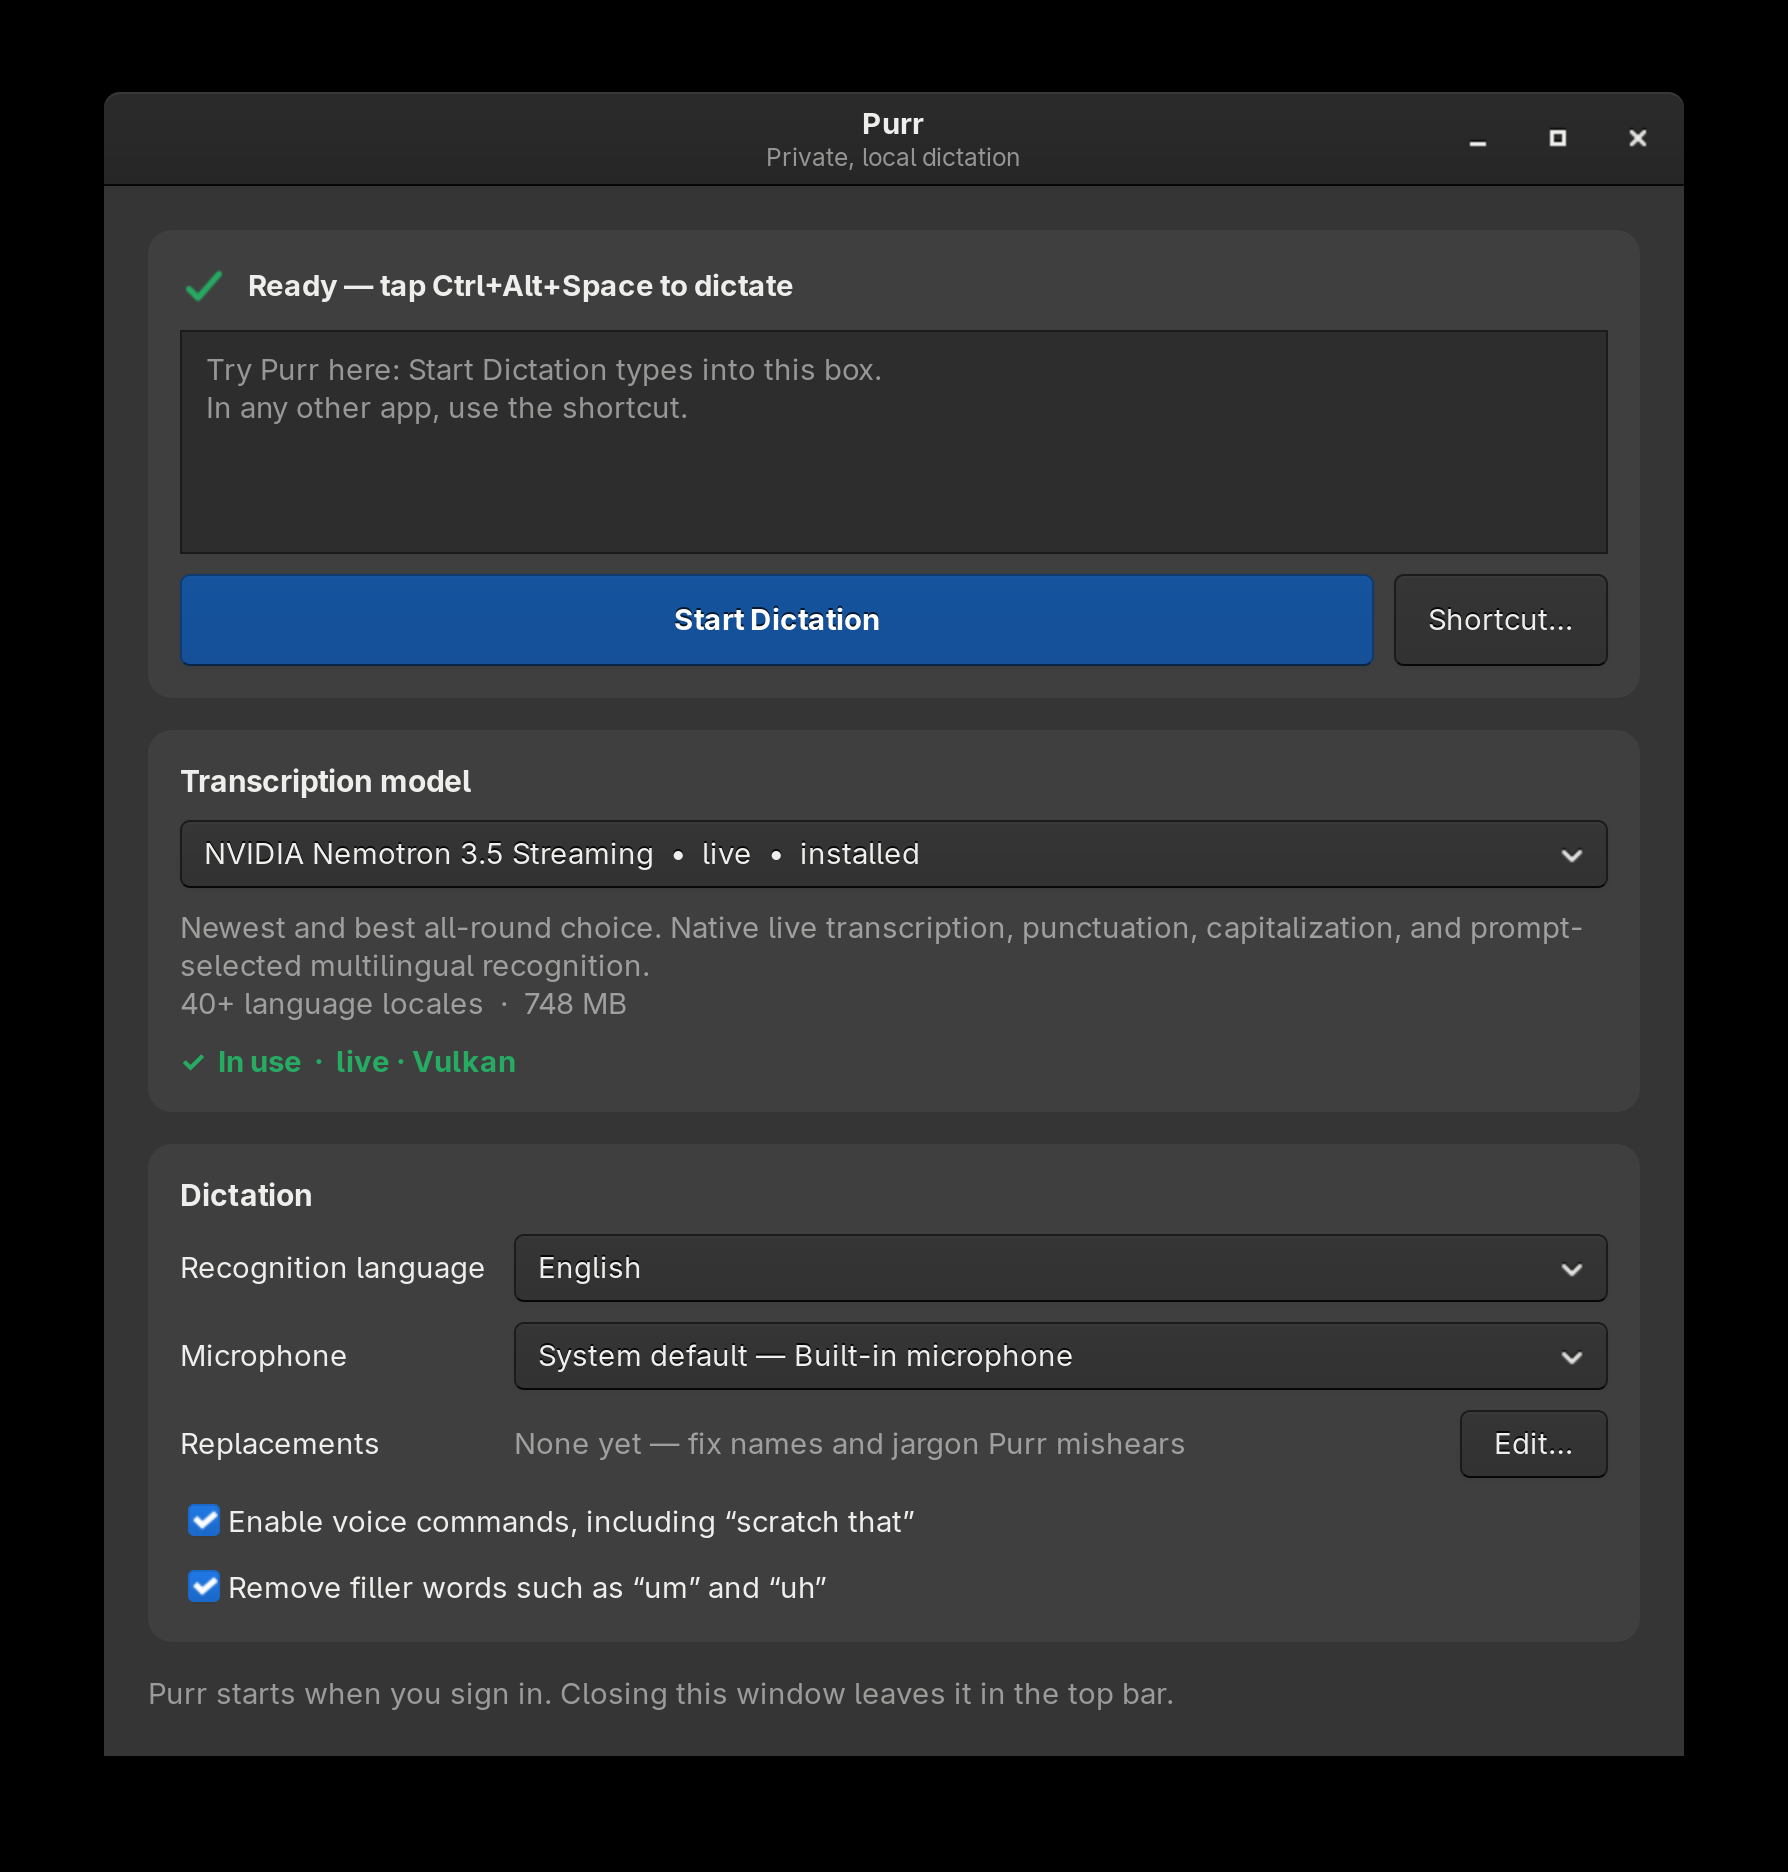
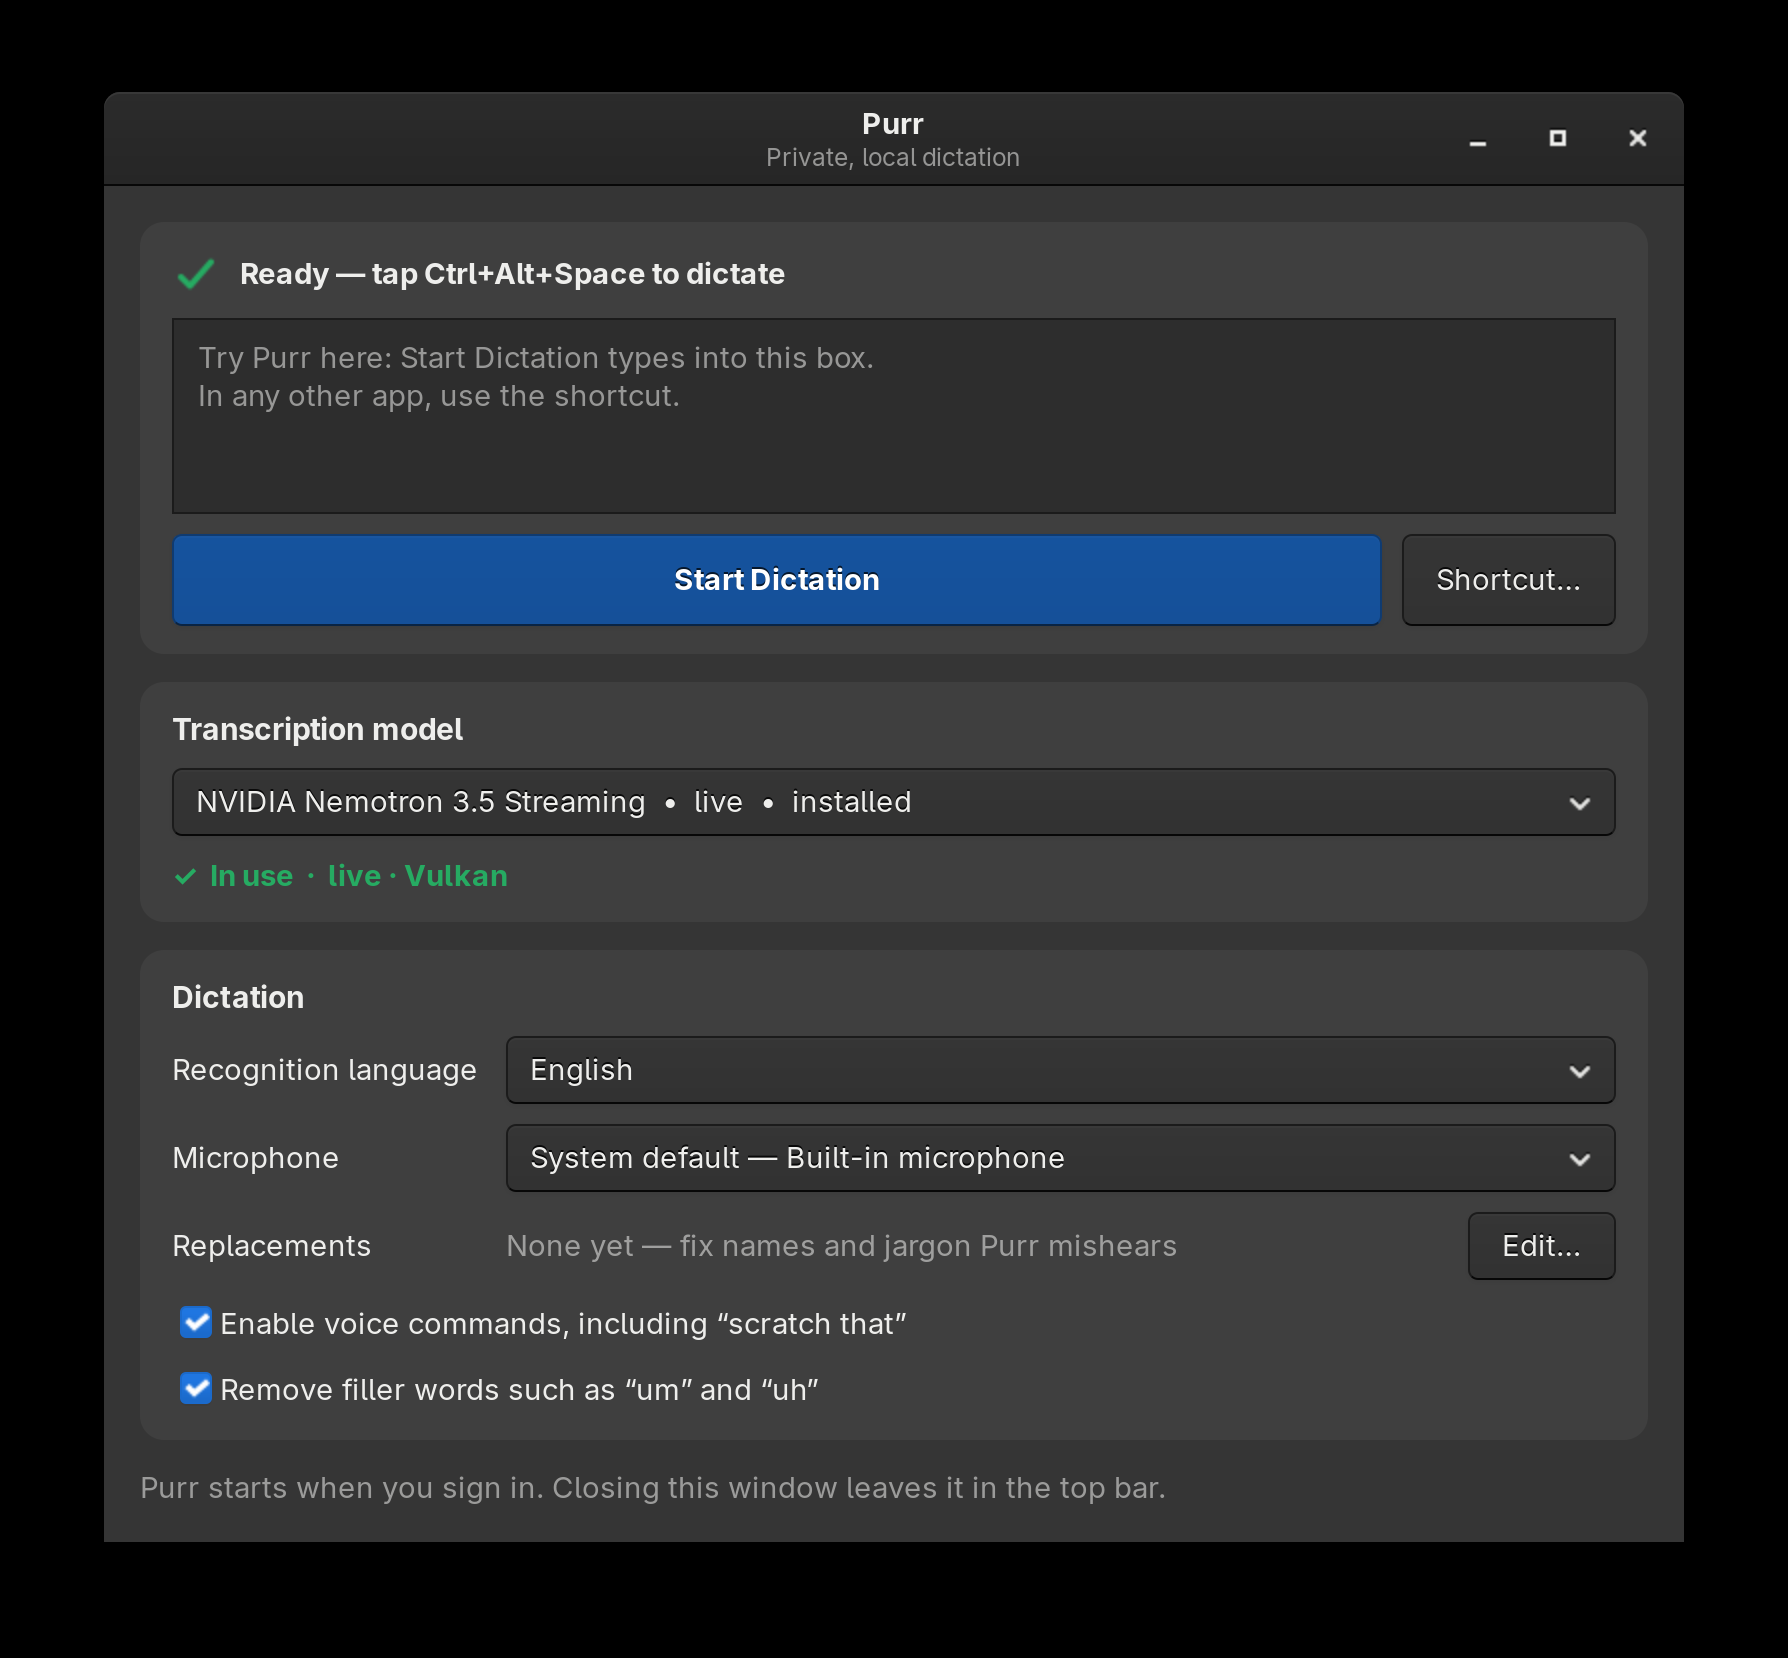
Fit the window on short screens and capitalize I for lowercase models
Pass 5 of the Linux polish program.

- The window no longer demands 865 px. It hides the model description
  for the model in use, tightens spacing, and wraps its content in a
  page that scrolls only when the screen is too short. On a headless
  mutter with real virtual monitors, a 1920x1080 screen opens it at
  exactly its content with no scrolling, while 1366x768 and 1280x720
  scroll instead of cutting off the Dictation settings. Browsing another
  model grows the window for its description; returning gives the
  height back.
- The top-bar menu leads with Start Dictation.
- Realtime EOU writes lowercase without punctuation; for English, Purr
  now capitalizes the pronoun I (and I'm, I'll, I've, I'd) for models
  flagged as non-punctuating only, leaving "i.e." and Nemotron output
  alone.
- Screenshots re-rendered.

diff --git a/linux/purr_linux.py b/linux/purr_linux.py
@@ -168,8 +168,13 @@ class PostProcessor:
         (r"\bequals sign\b\.?", "="),
     ]
 
+    # The English pronoun, alone or contracted, but not "i.e." or "i-th".
+    PRONOUN_I = re.compile(r"\bi(?=(?:'(?:m|ll|ve|d))?(?:[\s,;:!?]|$))")
+
     def __init__(self, config: dict):
         self.config = config
+        # Set for models that write lowercase without punctuation.
+        self.capitalize_pronoun = False
 
     @staticmethod
     def _scratch(text: str) -> tuple[str, int]:
@@ -211,6 +216,8 @@ class PostProcessor:
                         text,
                         flags=re.IGNORECASE,
                     )
+        if self.capitalize_pronoun and str(self.config.get("language", "en")) == "en":
+            text = self.PRONOUN_I.sub("I", text)
         # The virtual keyboard is the only insertion path, and control
         # characters have no key or Unicode-compose form.
         if not text.replace("\n", " ").replace("\t", " ").isprintable():
@@ -480,6 +487,7 @@ class PurrApplication(Gtk.Application):
         self.processor = PostProcessor(self.config)
         self.store = ModelStore(BUILD)
         self.server, self.model = create_engine(self.config, BUILD, STATE, self.store)
+        self.processor.capitalize_pronoun = not self.model.punctuates
         self.keyboard: UInputKeyboard | None = None
         self.shortcuts: GnomeShortcut | None = None
         self.recorder: subprocess.Popen | None = None
@@ -546,7 +554,7 @@ class PurrApplication(Gtk.Application):
     def _install_css() -> None:
         provider = Gtk.CssProvider()
         provider.load_from_data(b"""
-            .purr-card { background: alpha(@theme_fg_color, 0.055); border-radius: 12px; padding: 16px; }
+            .purr-card { background: alpha(@theme_fg_color, 0.055); border-radius: 12px; padding: 14px 16px; }
             .purr-live { background: rgba(24, 24, 28, 0.94); color: white; border-radius: 18px; padding: 18px 24px; }
             .purr-live label { color: white; font-size: 17px; }
             .purr-record { padding: 10px 22px; font-weight: bold; }
@@ -574,15 +582,15 @@ class PurrApplication(Gtk.Application):
         self.indicator_model.set_sensitive(False)
         menu.append(self.indicator_model)
         menu.append(Gtk.SeparatorMenuItem())
+        self.indicator_dictate = Gtk.MenuItem(label="Start Dictation")
+        self.indicator_dictate.connect("activate", lambda _item: self._toggle_recording(None))
+        menu.append(self.indicator_dictate)
         show = Gtk.MenuItem(label="Open Purr")
         show.connect("activate", lambda _item: self._show_window())
         menu.append(show)
         configure = Gtk.MenuItem(label="Change Dictation Shortcut…")
         configure.connect("activate", lambda _item: self.shortcuts and self.shortcuts.configure())
         menu.append(configure)
-        self.indicator_dictate = Gtk.MenuItem(label="Start Dictation")
-        self.indicator_dictate.connect("activate", lambda _item: self._toggle_recording(None))
-        menu.append(self.indicator_dictate)
         menu.append(Gtk.SeparatorMenuItem())
         quit_item = Gtk.MenuItem(label="Quit")
         quit_item.connect("activate", lambda _item: self.quit())
@@ -593,14 +601,14 @@ class PurrApplication(Gtk.Application):
     def _build_window(self) -> None:
         self.window = Gtk.ApplicationWindow(application=self)
         self.window.set_title("Purr")
-        self.window.set_default_size(650, 650)
+        self.window.set_default_size(680, -1)  # natural height; scrolls on short screens
         self.window.connect("delete-event", self._hide_window)
         header = Gtk.HeaderBar(title="Purr", subtitle="Private, local dictation")
         header.set_show_close_button(True)
         self.window.set_titlebar(header)
 
-        outer = Gtk.Box(orientation=Gtk.Orientation.VERTICAL, spacing=16)
-        outer.set_border_width(22)
+        outer = Gtk.Box(orientation=Gtk.Orientation.VERTICAL, spacing=14)
+        outer.set_border_width(18)
 
         status_card = Gtk.Box(orientation=Gtk.Orientation.VERTICAL, spacing=10)
         status_card.get_style_context().add_class("purr-card")
@@ -638,7 +646,7 @@ class PurrApplication(Gtk.Application):
             wrap_mode=Gtk.WrapMode.WORD_CHAR, left_margin=10, right_margin=10,
             top_margin=8, bottom_margin=8,
         )
-        practice_scroll = Gtk.ScrolledWindow(min_content_height=110)
+        practice_scroll = Gtk.ScrolledWindow(min_content_height=96)
         practice_scroll.set_shadow_type(Gtk.ShadowType.IN)
         practice_scroll.add(self.practice)
         practice_area = Gtk.Overlay()
@@ -756,13 +764,41 @@ class PurrApplication(Gtk.Application):
         )
         note.get_style_context().add_class("dim-label")
         outer.pack_end(note, False, False, 0)
-        self.window.add(outer)
+        # Laptop screens can be shorter than the window: scroll there rather
+        # than cut off the settings. Where it fits, never scroll, so the window
+        # simply sizes to its content.
+        page = Gtk.ScrolledWindow(
+            hscrollbar_policy=Gtk.PolicyType.NEVER, propagate_natural_height=True,
+        )
+        page.add(outer)
+        self.window.add(page)
+        outer.show_all()  # measured with the model description shown, the tallest layout
+        if self._fits_on_screen(outer):
+            page.set_policy(Gtk.PolicyType.NEVER, Gtk.PolicyType.NEVER)
         self.window.show_all()
         self.download_progress.hide()
         self.practice.grab_focus()
         self._show_status_state()
         self._sync_record_controls()
         self._refresh_model_ui()
+
+    @staticmethod
+    def _fits_on_screen(content) -> bool:
+        display = Gdk.Display.get_default()
+        monitor = display and (display.get_primary_monitor() or display.get_monitor(0))
+        if not monitor:
+            return True
+        _minimum, natural = content.get_preferred_height()
+        # Room for the header bar and window shadows.
+        return natural + 120 <= monitor.get_workarea().height
+
+    def _shrink_to_content(self) -> None:
+        """Give back the height of a section that was hidden. GTK grows a window
+        for new content but never shrinks it; where the page does not scroll,
+        the smallest size is exactly the content."""
+        page = self.window.get_child()
+        if page.get_policy()[1] == Gtk.PolicyType.NEVER:
+            self.window.resize(self.window.get_size()[0], 1)
 
     def _populate_microphones(self) -> None:
         """(Re)list sources, so devices plugged in since the last look appear."""
@@ -995,6 +1031,7 @@ class PurrApplication(Gtk.Application):
             GLib.idle_add(self._server_failed, str(error))
 
     def _server_ready(self) -> bool:
+        self.processor.capitalize_pronoun = not self.model.punctuates
         self.ready = True
         self.busy = False
         self.engine_error = None
@@ -1356,6 +1393,12 @@ class PurrApplication(Gtk.Application):
             f"{selected.summary}\n{selected.languages}  ·  {selected.size_label}"
         )
         active = selected.id == self.model.id
+        # The description helps while choosing another model; for the one in
+        # use it only makes the window taller.
+        described = self.model_description.get_visible()
+        self.model_description.set_visible(not active)
+        if described and active:
+            self._shrink_to_content()
         self.model_state.set_visible(active)
         self.model_buttons.set_visible(not active)
         if active:

diff --git a/linux/test_purr_linux.py b/linux/test_purr_linux.py
@@ -169,6 +169,26 @@ class PostProcessorTests(unittest.TestCase):
         self.assertEqual(text, "café — 日本語 🐈\ndone")
         self.assertTrue(UInputKeyboard.__new__(UInputKeyboard).can_type(text))
 
+    def test_lowercase_models_get_a_capital_pronoun_i(self):
+        processor = PostProcessor({"language": "en", "voice_commands": False, "trim_fillers": False})
+        raw = "okay i think i'm sure, i.e. what i'd say if i'll lose i"
+        self.assertEqual(processor.apply(raw)[0], raw)  # models that punctuate are left alone
+        processor.capitalize_pronoun = True
+        self.assertEqual(
+            processor.apply(raw)[0], "okay I think I'm sure, i.e. what I'd say if I'll lose I"
+        )
+        processor.config["language"] = "it"  # Italian "i" is an article
+        self.assertEqual(processor.apply("i gatti")[0], "i gatti")
+
+    def test_only_lowercase_models_ask_for_the_pronoun_fix(self):
+        self.assertFalse(MODEL_BY_ID["eou-streaming-q5"].punctuates)
+        self.assertTrue(MODEL_BY_ID["nemotron-streaming-q5"].punctuates)
+        app = live_app(ScreenKeyboard())
+        self.assertFalse(app.processor.capitalize_pronoun)
+        app.model = MODEL_BY_ID["eou-streaming-q5"]
+        app._server_ready()
+        self.assertTrue(app.processor.capitalize_pronoun)
+
     def test_transcript_preview_keeps_only_the_tail(self):
         self.assertEqual(transcript_preview("short"), "short")
         preview = transcript_preview("word " * 2000)
@@ -408,6 +428,34 @@ class LinuxIntegrationTests(unittest.TestCase):
         self.assertEqual(app.model_action.get_label(), "Use model")
         # The built-in fallback cannot be removed, so no Remove button at all.
         self.assertFalse(app.model_remove.get_visible())
+
+    def test_window_scrolls_only_on_screens_too_short_for_it(self):
+        def page_policy(screen_height):
+            monitor = mock.Mock()
+            monitor.get_workarea.return_value = mock.Mock(height=screen_height)
+            display = mock.Mock(get_primary_monitor=lambda: monitor)
+            with mock.patch.object(purr_linux.Gdk.Display, "get_default", return_value=display):
+                app = windowed_app()
+            return app.window.get_child().get_policy()[1]
+
+        self.assertEqual(page_policy(1080), Gtk.PolicyType.NEVER)
+        self.assertEqual(page_policy(600), Gtk.PolicyType.AUTOMATIC)
+
+    def test_window_gives_back_the_height_of_a_hidden_description(self):
+        app = windowed_app()
+        app.window.get_child().set_policy(Gtk.PolicyType.NEVER, Gtk.PolicyType.NEVER)
+        app.window.resize = mock.Mock()
+        app.model_combo.set_active_id("whisper-turbo-q5")
+        self.assertTrue(app.model_description.get_visible())
+        app.window.resize.assert_not_called()
+        app.model_combo.set_active_id(app.model.id)
+        self.assertFalse(app.model_description.get_visible())
+        app.window.resize.assert_called_once()
+        # A scrolling page keeps the size the screen allows.
+        app.window.get_child().set_policy(Gtk.PolicyType.NEVER, Gtk.PolicyType.AUTOMATIC)
+        app.model_combo.set_active_id("whisper-turbo-q5")
+        app.model_combo.set_active_id(app.model.id)
+        app.window.resize.assert_called_once()
 
     def test_status_shows_a_matching_state_indicator(self):
         app = windowed_app()

diff --git a/linux/purr_models.py b/linux/purr_models.py
@@ -34,6 +34,8 @@ class ModelSpec:
     engine: str = "parakeet"
     # Renew the live stream at pauses; see ParakeetStream.
     renew_at_pauses: bool = False
+    # Whether the model writes punctuation and capitals itself.
+    punctuates: bool = True
 
     @property
     def url(self) -> str:
@@ -64,9 +66,10 @@ MODELS = (
         "realtime_eou_120m-v1-q5_k.gguf",
         141_151_648,
         "Very small, very low-latency English streaming model with real "
-        "end-of-utterance detection.",
+        "end-of-utterance detection. Writes lowercase without punctuation.",
         "English",
         True,
+        punctuates=False,
     ),
     ModelSpec(
         "parakeet-v2-q5",

diff --git a/LINUX.md b/LINUX.md
@@ -124,8 +124,8 @@ If Purr cannot start yet (the model is still loading, the previous dictation is
 still finishing, or the engine failed), the tap shows a notification explaining
 why instead of doing nothing. If the microphone stops or disappears during
 dictation, Purr keeps the words already typed and says that dictation ended.
-The top-bar menu's **Start Dictation** item switches to **Stop Dictation** while
-Purr is listening.
+The top-bar menu leads with **Start Dictation**, which switches to **Stop
+Dictation** while Purr is listening.
 
 If the microphone delivers only silence for the first three seconds (muted,
 switched off, or the wrong device), Purr warns right away with a notification
@@ -135,7 +135,8 @@ sound, and dictation keeps running either way.
 The Purr window has a practice box: **Start Dictation** in the window types
 into it, so you can try dictation, voice commands, and microphones without
 touching another app. While listening, a level meter beside the status shows
-what the microphone hears.
+what the microphone hears. On screens too short for the whole window, such as
+1366×768 laptops, the window scrolls instead of cutting off its settings.
 
 Click **Shortcut…** in Purr to open GNOME's keyboard settings. Purr preserves a
 shortcut changed there and shows the new one immediately. All text is typed
@@ -165,11 +166,14 @@ removable from the window.
 | Model | Approx. size | Mode | Languages |
 | --- | ---: | --- | --- |
 | NVIDIA Nemotron 3.5 Streaming Q5 | 748 MiB | Live, default | 40+ prompted locales |
-| NVIDIA Parakeet Realtime EOU 120M Q5 | 135 MiB | Live | English |
+| NVIDIA Parakeet Realtime EOU 120M Q5 | 135 MiB | Live, lowercase without punctuation | English |
 | NVIDIA Parakeet TDT 0.6B V2 Q5 | 672 MiB | Batch | English |
 | NVIDIA Parakeet TDT 0.6B V3 Q5 | 708 MiB | Batch | 25 European languages |
 | NVIDIA Parakeet TDT-CTC 110M Q5 | 137 MiB | Batch | English |
 | Whisper Large V3 Turbo Q5 | 548 MiB | Batch fallback | Multilingual |
+
+Realtime EOU writes lowercase text without punctuation; Purr capitalizes the
+pronoun “I” for it when the recognition language is English.
 
 Nemotron and Parakeet run through
 [`parakeet.cpp`](https://github.com/mudler/parakeet.cpp). The Q5 GGUF conversions

diff --git a/README.md b/README.md
@@ -140,7 +140,7 @@ background Wayland clipboard restrictions. Say “scratch that” to remove the
 preceding dictated word immediately. The second tap finalizes the stream. The
 GUI can download, select, and remove these additional local models:
 
-- NVIDIA Parakeet Realtime EOU 120M (English live streaming)
+- NVIDIA Parakeet Realtime EOU 120M (English live streaming, lowercase without punctuation)
 - NVIDIA Parakeet TDT 0.6B V2 (English batch accuracy)
 - NVIDIA Parakeet TDT 0.6B V3 (25-language batch accuracy)
 - NVIDIA Parakeet TDT-CTC 110M (small and fast)
